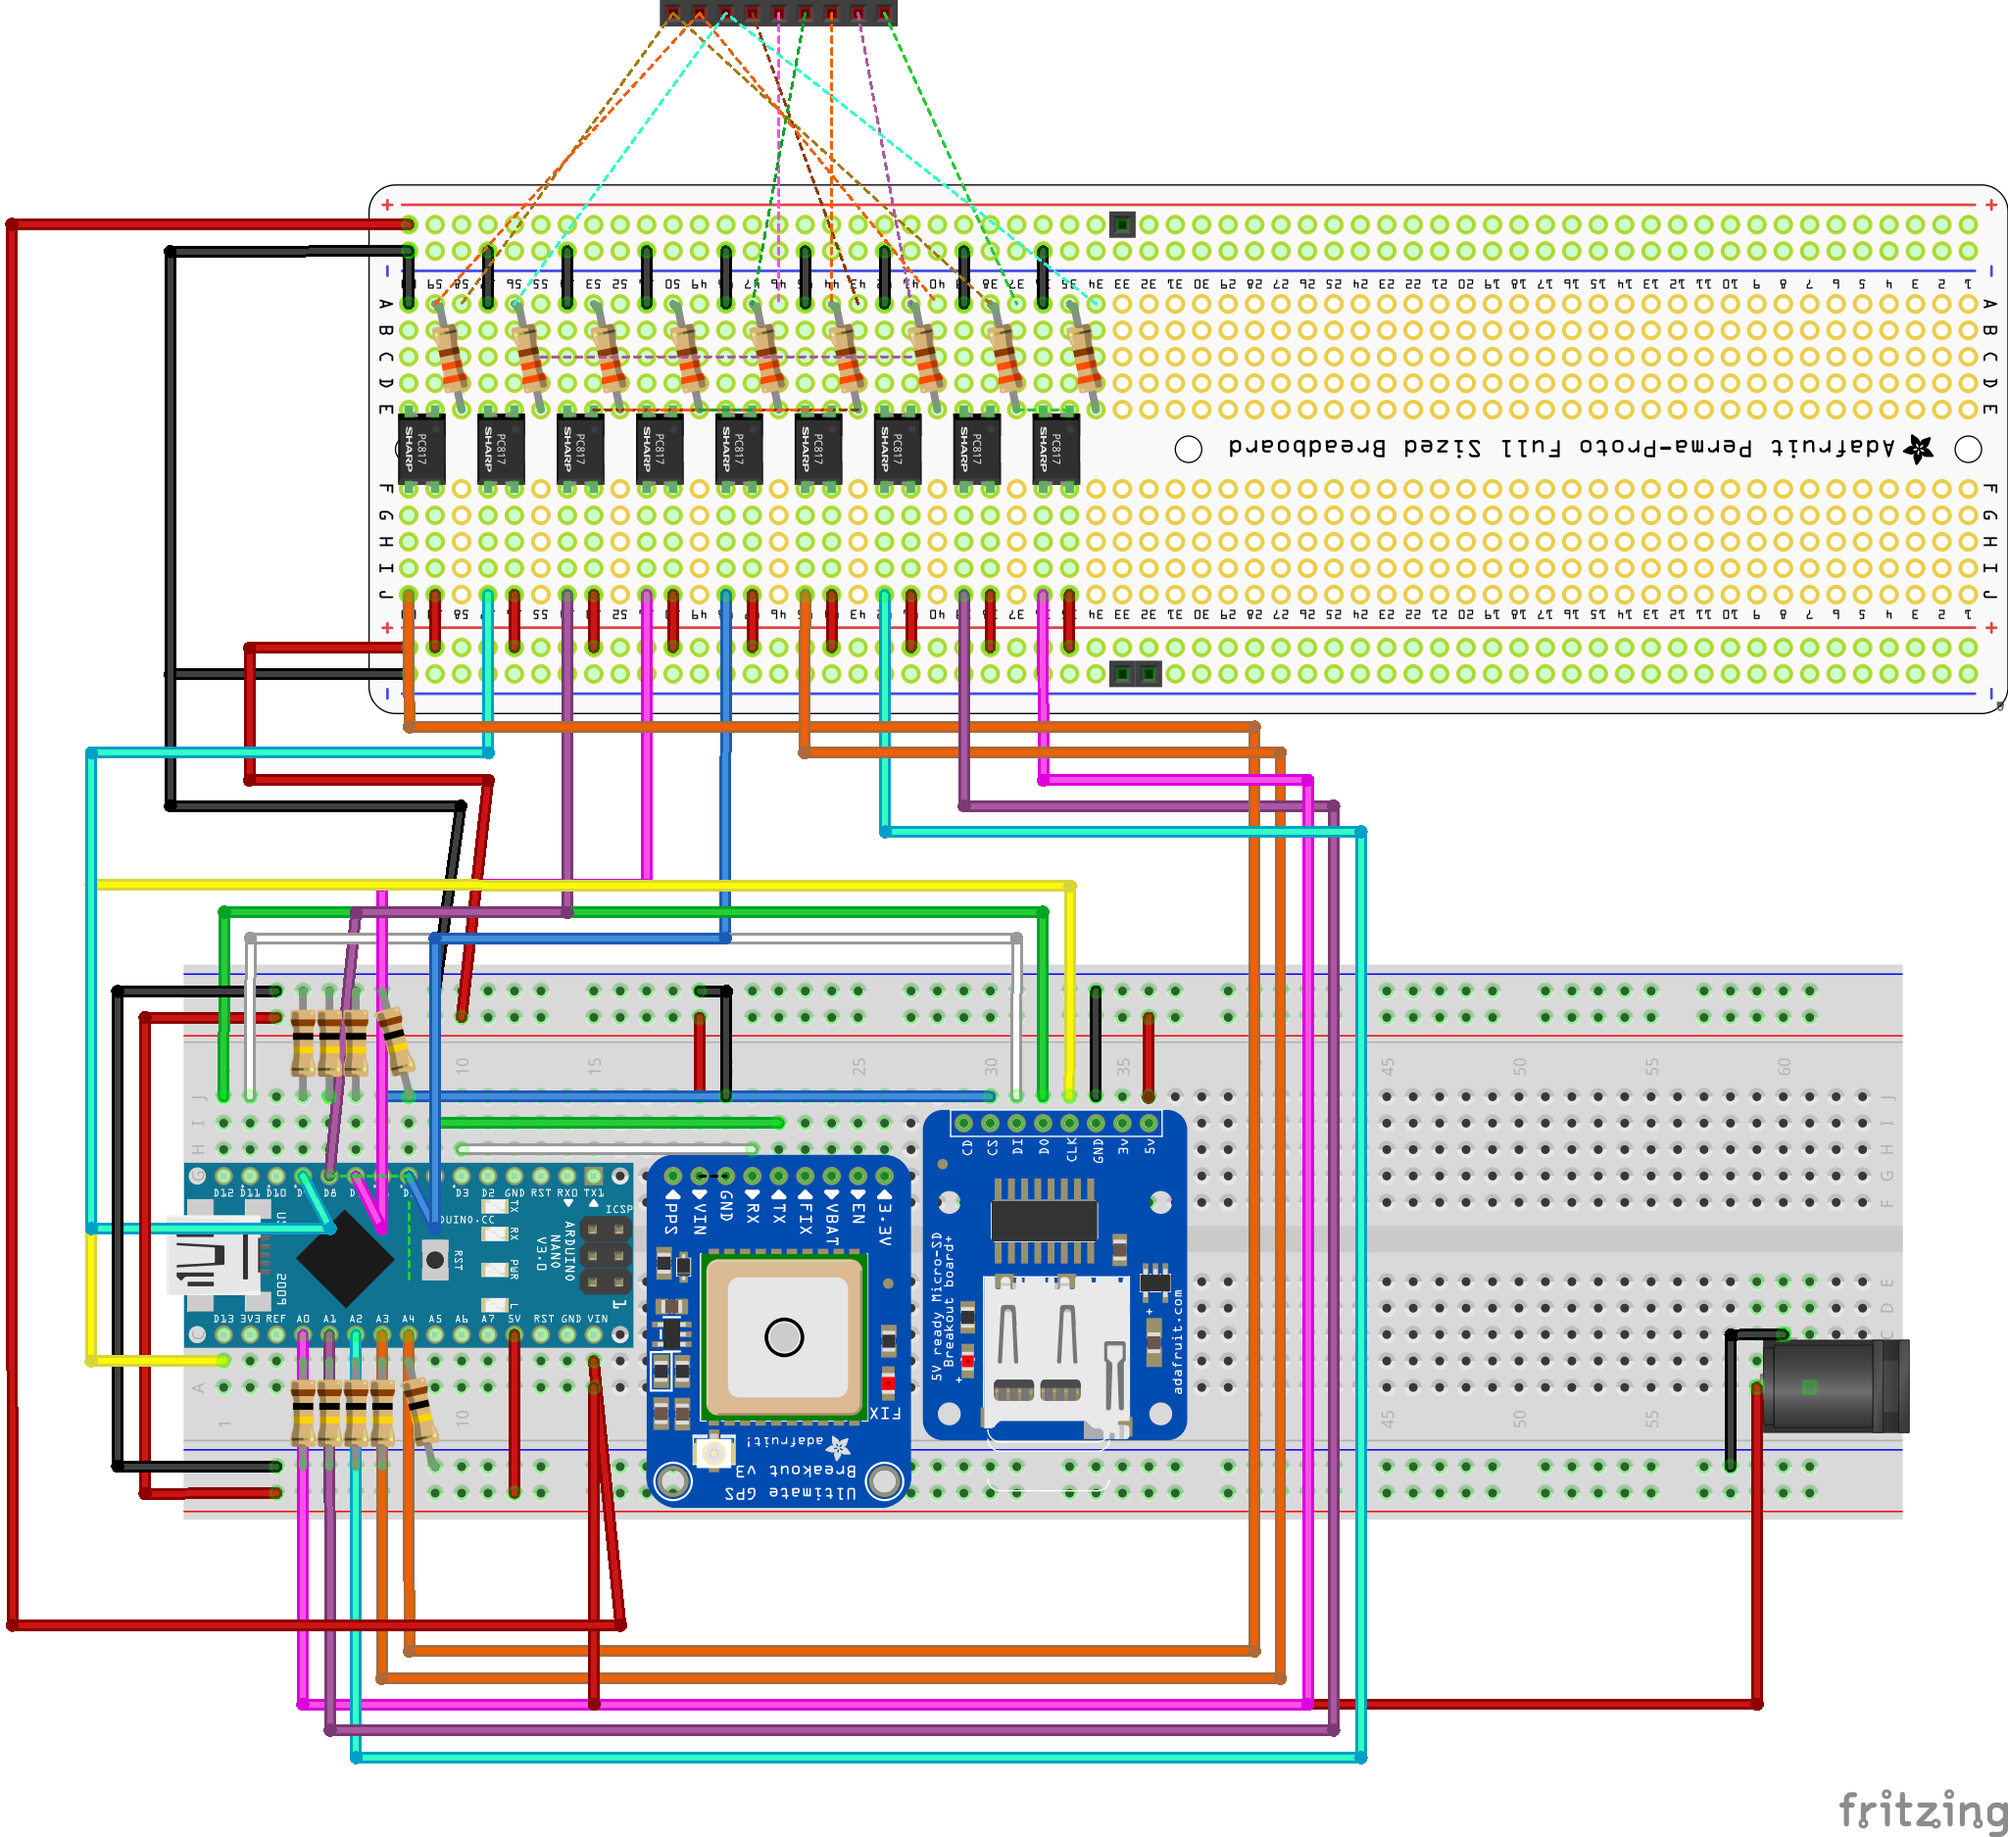
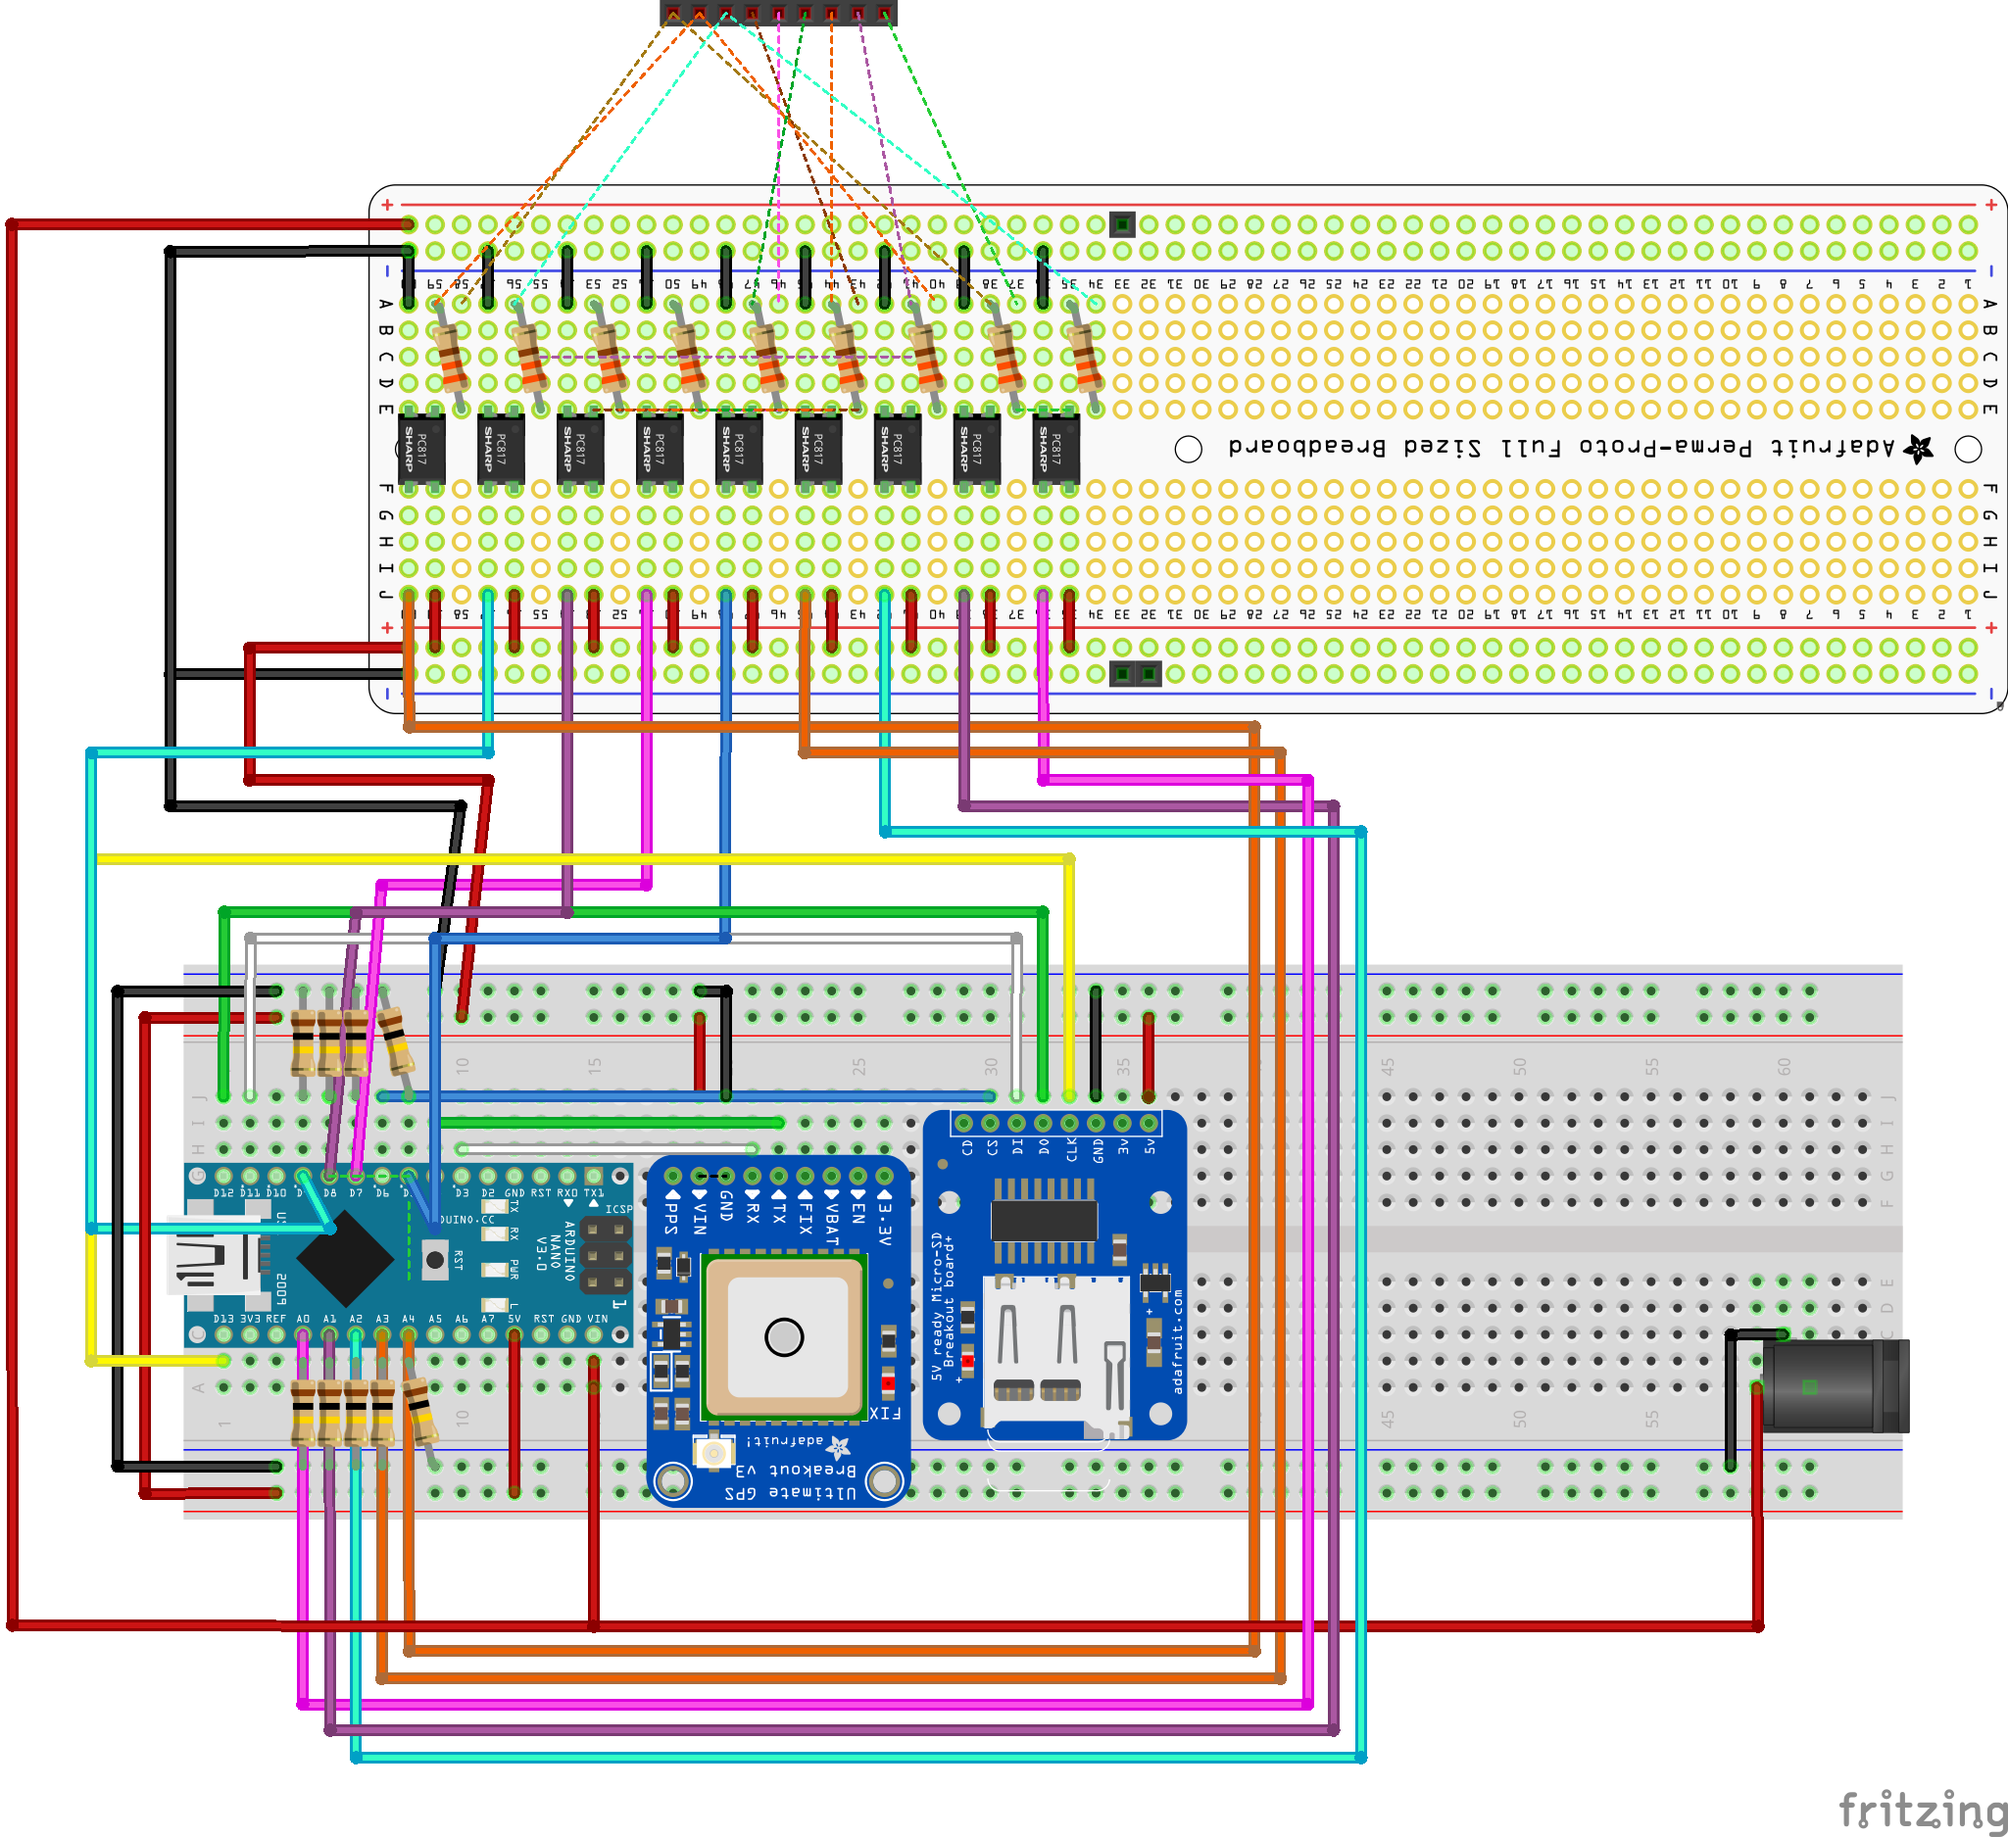
updated README, fixed wiring diagram

Changed region(s): [[0.2811, 0.7733, 0.9058, 0.928], [0.0312, 0.464, 0.5622, 0.5259], [0.1562, 0.5259, 0.2186, 0.6805]]

diff --git a/README.md b/README.md
@@ -1,4 +1,4 @@
 # WeedLogger
 
 ## Wiring
-![./assets/gpsLogger_bb.png](Wiring diagram)
+!(./assets/gpsLogger_bb.png)[Wiring diagram]
